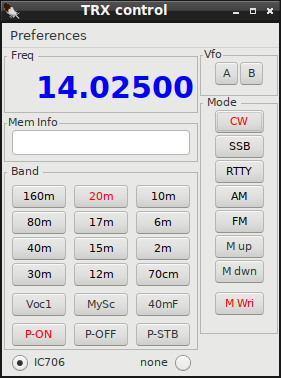
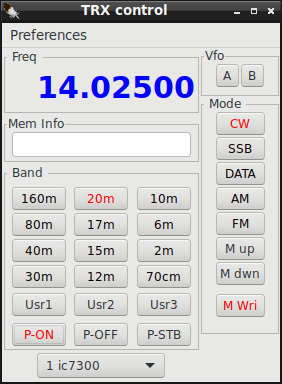
Fixed some help files

diff --git a/help/h1.html b/help/h1.html
@@ -34,9 +34,9 @@
 <br>There are some additional startup parameters that you can use with command terminal, or add them to your startup menu parameters of cqrlog.
  Those parameters can be listed in command terminal starting cqrlog as: cqrlog -h , or: cqrlog --help
 <br><br><img src=img/h0.png border=0>
-<br><br>Starting with <b>--remote</b> or <b>-r</b> takes one letter argument <b>J</b>,<b> M</b> or <b>K</b> that is not case sensitive. Letters correspond quick control keys in NewQSO/File to start three remote modes.
+<br><br>Starting with <strong>--remote</strong> or <strong>-r</strong> takes one letter argument <strong>J</strong>,<strong> M</strong> or <strong>K</strong> that is not case sensitive. Letters correspond quick control keys in NewQSO/File to start three remote modes.
 <br>When one of these are assigned cqrlog will jump to selected remote mode 10 seconds after startup is complete.
-<br><br>Starting with <b>--debug</b> takes one number (NR) usually<b> 1</b> to see full debug. Thtere are also some negative numbers in use to limit debug prints to certain functions. Mainly for developer usage.
+<br><br>Starting with <strong>--debug</strong> takes one number (NR) usually<strong> 1</strong> to see full debug. Thtere are also some negative numbers in use to limit debug prints to certain functions. Mainly for developer usage.
 
 </p>
 <a name=ah1><h2><strong>Preferences</strong></h2>
@@ -208,48 +208,86 @@
     Checked bands are visible in both statistics appearing at the bottom of logging screen
     (bands/modes of the actual logged station) and main DXCC, WAZ and ITU zones statistics.
     It also affects the Challenge points at the bottom of the DXCC statistics.<br>
-    Pressing button <b>frequencies</b> band, and mode limits within bands, can be set.
+    Pressing button <strong>frequencies</strong> band, and mode limits within bands, can be set.
 </div><br>
 <img src=img/h9b.png border=0><br><br>
 <p align=center><img src=img/line.png></p>
 <a name=ah7><h2><strong>TRX Control</strong></h2></a>
 <img src=img/h10.png border=0><br><br>
-<div align=justify>
 
-<br><br><b> Note: </b>Running same time CQRLOG and other software that uses rig's CAT control can not be done by just setting rig same parameters to both programs.
-<br>That causes problems. See this document for more information: <a href="https://github.com/OH1KH/cqrlog/blob/loc_testing/compiled/setting_rigctld_for_all_programs.pdf">https://github.com/OH1KH/cqrlog/blob/loc_testing/compiled/setting_rigctld_for_all_programs.pdf</a>
-<br><br><b>Note: </b>CQRLOG supports operating with two TRX radios but only one can be active at a time.
-<br><br>
-    <strong>Radio one, desc:</strong> is a description you'll see in TRX control window. It is only
-    descriptive text, you can write whatever you want.<br><br>
-    <strong>Host:</strong> computer where rigctld is running, localhost is fine for most cases. <br><br>
+<br>Running same time CQRLOG and other software that uses same rig's CAT control can not be done by just setting rig same parameters to both programs.
+    That causes problems. See this document for more information: <a href="https://github.com/OH1KH/cqrlog/blob/loc_testing/compiled/setting_rigctld_for_all_programs.pdf">https://github.com/OH1KH/cqrlog/blob/loc_testing/compiled/setting_rigctld_for_all_programs.pdf</a>
+    
+    <ul><li><strong>Note: </strong>CQRLOG supports operating with six Rigs but only one can be active at a time.
+    </li></ul>
+    <strong>Path to rigctld binary</strong> This tells Cqrlog from where to find rigctld that is a part of Hamlib. That is important for two
+    reasons. 
+    <br>1st The rig model list is loaded from rigctld when preferences open. That makes model list to be always up to date and Cqrlog
+    supports always all rigs that current rigctld can support.
+    <br>2nd rigctld is started when Cqrlog starts (most of cases). Writing whole path makes rigctld to be found also the when it is not found
+    from default path.
+    <ul><li><strong> Note: </strong>Usuallly rigctld is found from /usr/bin, but if you have compiled it by yourself from source it may default to /usr/local/bin
+    </li></ul>
+    <strong>Nr of radios:</strong> With this you can select how many radios Cqrlog will support (Max 6, now).
+    <br><br>
+    <strong>Name:</strong>This is the radio name that you will see in combo box selector lists: TRXControl, Prefrences/TRXControl, Modes, CW interface.
+    If rig is not defined, means rig Name is empty, you will see "None" here. If you want to remove rig definition select it from selector, then clear
+    rig Model manually using delete key and change selector to another rig, or close prfereces with "OK" button.
+    <br>This will remove also rig's Modes and CW interface definition from configuration file. Next time you select deleted rig Cqrlog will load all defaults to settings.
+    <ul><li><strong>Note: </strong>If you have 3 rigs and you delete rig #2 Cqrlog does not reorder selection list. Your rig #3 stays as 3rd in 
+    selector list and #2 becomes "None"
+    </ul></li>
+    <strong>Host:</strong> computer where rigctld is running, localhost is fine for most cases but can be IP address of another computer where
+    rigctld is running (I.E. even over local network or internet) <br><br>
     <strong>RIG model:</strong> choose your radio model from the list.
     <br> Rig models below 10 (Dummy, NET rigctld, FLRig, TRXManager) are using TCP communication and so the <strong>Device</strong> as well
-     as <strong>Radio serial parameters</strong> do not need settings.<br><br>
+     as <strong>Radio serial parameters</strong> do not need settings.
+    <br><br>
     <strong>Device:</strong> device which the radio is connected to. /dev/ttyS0 is COM1, /dev/ttyS1
     is COM2 etc. If you use USB to serial interface, the device will usually be /dev/ttyUSB0
     for COM1 etc. If you are using Ubuntu or Debian, <strong>you have to be member of the dialout users
-    group</strong> to have rights to the serial ports.<br><br>
-    <strong>Poll rate:</strong> specifies how often CQRLOG should read data from rigctld. 500 milliseconds
-    is fine.<br><br>
+    group</strong> to have rights to the serial ports.
+    <ul><li><strong> Note: </strong>When connecting to rigctld emulator that imitates a rig via TCP connection the IPaddress and port may be written here like: 192.168.60.1:1234    
+    </li><li><strong> Note: </strong>With recent rigctlds you can use also names in /dev/serial/by-id/ folder. That way the device name does not change
+    like it often happens if you reorder USB wires in PS's sokets.
+    <br>(I.E my ci7300 shows out as /dev/serial/by-id/usb-Silicon_Labs_CP2102_USB_to_UART_Bridge_Controller_IC-7300_03003483-if00-port0  )
+    </li></ul>
+    <strong>Poll rate:</strong> specifies how often CQRLOG should read data from rigctld. 500 milliseconds is defaut. 
+    If your rig is old and slow values 1000 - 3000 may work better.
+    <br><br>
     <strong>Port number</strong> is the number of the port used to communicate with rigctld.
-    Default value is 4532. The second radio, has to have a different port e.g. 4533.<br>
-    <br><strong>Extra command line arguments</strong> usefull when you have to specify more parameters to
-    rigctld. E.g. CIV address (--civaddr=ID, where ID is the CIV address).<br><br>
-    <strong>Run rigctld when program starts</strong> is usually checked but when rig model #2 <strong>Hamlib Net Rigctld</strong> is used then it is unchecked and disabled because with that rig setting we are trying to connect external rigctld. Either in same PC or in network.
-    <br>If rig model #1 <b>Hamlib Dummy</b> is selected <strong>Run rigctld when program starts</strong>  is forced to be checked. This allows testing and simulated operations without rig CAT control.
-    <br><br><strong>Use \chkvfo</strong> is normally checked. Then cqrlog tries to find out is rigctld started with parameter "--vfo" because that changes rigctld command format. Uncheck of this disables this function. Use it in case of problems.
-    <br><br><strong>Serial port parameters</strong> Use the manual of your rig, please choose the correct options.
+    Default value of rigctld is 4532.
+    <br><br>
+    <strong>Extra command line arguments</strong> usefull when you have to specify more parameters to
+    rigctld. E.g. CIV address (--civaddr=ID, where ID is the CIV address) or similars. See rigctld man page for supported parameters.
+    <br><br>
+    <strong>Use CWR insted of CW</strong> means that mode CW will use reverse sideband in receive.
+    <br><br>
+    <strong>Run rigctld when program starts</strong> is usually checked but when rig model #2 <strong>Hamlib Net Rigctld</strong> is used then
+    it is unchecked and disabled because with that rig model we are trying to connect externally running rigctld. Either in same PC or in network.
+    <br>If rig model #1 <strong>Hamlib Dummy</strong> is selected <strong>Run rigctld when program starts</strong>  is forced to be checked. 
+    This allows testing and simulated operations without rig with CAT control.
+    <ul><li><strong> Note: </strong>If you use Cqrlog without connected rig it may be usefull to select rig model #1. Then you can open TRXConrol
+    window and set bands, modes and frequency from there that might be more convinient than selecting them from NewQSO window.
+    <br>Model Hamlib Dummy starts default from 145MHz frequency. Seeing that in TRXControl window tells you that Dummy rig is running.
+    </li></ul>
+    <strong>Use \chkvfo</strong> is normally checked. Then cqrlog tries to find out is rigctld started with parameter "--vfo" because
+     that changes rigctld command format. Uncheck of this disables this function. Use it in case of problems. This may be default ON in future
+     Hamlibs version > 5.
+    <br><br>
+    <strong>Serial port parameters</strong> Use the manual of your rig, please choose the correct options.
     Very often it is much better to specify only serial speed and leave other options as default.
-    Default value means that the settings from HamLib will be used.<br>
-    <br>
-    <strong>User defined TRXControl buttons</strong> can be defined here. Your defined buttons will shown in the TRX Control window after
-     you drop select this option in using the <strong>Preferences tab in the TRXControl</strong> window. For setting up buttons use
-      <strong>preferences</strong> option from TRXControl drop select option <strong>Preferences</strong>. From TRX Control tab you will find group
-       box named <strong>User defined TRX control buttons</strong>.
-    The first column is button name shown (4char max). In the same area the second column is the command(s) to execute. Definition can consist one 
-     command or several in a queue, rigctld commands may be used or if definition starts with word "<strong>run</strong>" (without quotes) it can be a program or
-      script name with full file path for your computer.
+    Default value means that the default settings from HamLib will be used. That should be fine in normal cases.
+    <br><br>
+    <strong>Rig pwr ON cmd</strong> When checked Cqrlog will send power ON command at startup to rig if rig can support power commands.
+    <br><br>
+    <strong>User defined TRXControl buttons</strong> can be defined here. Your defined buttons will be shown in the TRX Control window after
+     you select this option using the <strong>Preferences menu/Show Usr buttons</strong> in the <strong>TRXControl window.</strong> 
+     <br>
+     The first column is button name shown (4char max). In the same area the second column is for the command(s) to execute. 
+     Definition can consist one command or several ones in a queue.
+     <br> rigctld commands may be used directly or if definition starts with word "<strong>run</strong>" (without quotes) 
+     it can be a program or script name with full file path.
       <br><ul> <li>
     <strong>Note:</strong> Rigctld supports raw command <strong>W</strong>. Parameter for it is the rig cat command in bytes. Prefix<strong> \0x</strong> must be added for Hex values. Usr1 command in picture Sets IC7300 to 60m CW with 500Hz filter and reduces output power to leagal limit with raw command.
     </li> <li>
@@ -279,7 +317,6 @@
     <br>Ctrl-0 will disable XIT. 
     <br>Ctrl-9 has a random value 0-990Hz that is added to setting if split is up. If split is down it is subtracted.<br>
     
-</div>
 <br>
 <img src=img/h100.png border=0> <img src=img/h100b.png border=0><br>
 
@@ -289,11 +326,11 @@
 Setting up Rotator control is very similar to setting up Rig control. Rotor models 1 and 2 (Dummy, NET rotctld ) are using TCP communication and so the <strong>Device</strong> as well
      as <strong>Rotor serial parameters</strong> do not need settings.<br><br>
 <br>
-<br>If <b>Use rotctld \dump_state info for limits</b> cheked rotctld asks turning limits AzMin and AzMax values from rotctld with command <strong>'+\dump_state'</strong>.
+<br>If <strong>Use rotctld \dump_state info for limits</strong> cheked rotctld asks turning limits AzMin and AzMax values from rotctld with command <strong>'+\dump_state'</strong>.
  That makes user possible to set turning limits other than rotator default turn with
  <strong>Extra command line arguments</strong>. Using string <strong> --set-conf=min_az=10,max_az=355</strong>  you can set rotator so that cqrlog will never turn it below 10deg or over 355deg.
  <br>Using negative value at az_min causes Cqrlog set it's 0degrees "P"-command to given negative value (while still displaying 0). I.E if az_min=-180 Cqrlog will use turning commands from "P-180" to "P180".
- <br>Without negative az_min or when checkbox  <b>Use rotctld \dump_state info for limits</b> is not set Cqrlog sends commands in usual range "P0 to "P360".
+ <br>Without negative az_min or when checkbox  <strong>Use rotctld \dump_state info for limits</strong> is not set Cqrlog sends commands in usual range "P0 to "P360".
  </p><p>Some rotators have turn from -180deg-0deg-180deg (south stop), like Hamlib Dummy test rotator.
  <br>Most of rotators have turn 0deg - 360deg.
  <br>Some may turn 0deg - >360 deg. With them cqrlog never drives values over 360, but reads position right if rotor sends over 360 deg value (sent_value-360 = cqrlog display).
@@ -305,32 +342,45 @@ Setting up Rotator control is very similar to setting up Rig control. Rotor mode
 You can define your own favourite frequencis and swich between them directly in New QSO window using ALT+V (Mem down)
 and
 ALT+B (Mem up). These keys are used in N6TR clones to switch between bands.<br>
-You can also switch between memory frequencies with TRXControl's <b>M up</b> and <b>M dwn</b> buttons and set rig frequencies
+You can also switch between memory frequencies with TRXControl's <strong>M up</strong> and <strong>M dwn</strong> buttons and set rig frequencies
  by double clicking rows in TRXControl's Add/Modify memory list.
 
 </p>
 <img src="img/h121.png"><br><br>
 <a name=ah8><h2><strong>Modes</strong></h2></a>
 <img src=img/h11.png border=0><br><br>
-<p>Here you can set up the default bandwidth for any of the supported modes (CW - SSB - RTTY - AM - FM).
-If your radio is tuned to the corresponding band segment or if you switch the mode on the radio
-control panel, CQRLOG will change the bandwidth to the desired value. The bandwidth can be
-changed at any time, however a program restart will probably be needed to make the changes
-take effect.<br>
-Some <strong>TRX like ICOM don't have support for this in HamLib. To get mode settings work, set
-all values to 0 (zero).</strong>
-</p><p><strong>User definable digital modes</strong> can be set up in a separate box. Use comma
-as a separator, ie. MYMODE1,MYMODE2 etc.<br>
-user should add digital modes (submode names) exactly as written in this table <a href="https://adif.org/312/ADIF_312.htm#Mode_Enumeration">ADIF.org: Mode_Enumeration</a> 
+<p>Here you can set up the default bandwidth for any of the supported modes (CW - SSB - DATA - AM - FM) for rig selectd from <strong>Radio </strong>
+selector list box.
+If your rig is tuned to the corresponding band segment or if you switch the mode from TRXControl buttons CQRLOG will change the bandwidth
+ to the defined value. 
+<br>Setting 0 (zero) to values means that rig should use default bandwidth. This is good selection also when rig can not support bandwidth
+settings (like some ICOM rigs).
+<br>Setting -1 here means that bandwidth setting must be kept as it was. This also needs that rigctld supports negative value (version >=  4).
+<br><br>
+<strong>Log mode </strong>This is the data mode you most often use. Defaulting to RTTY. From mode selector you can select another mode.
+If mode does not exist you have to define it in <strong>User defined digital modes</strong> and then come back to mode selector.
+<br>
+This mode efftects to DXCluster window's spot line coloring (See <a href="h1.html#ah11">DX Cluster</a> ) and also sets defined mode if DX spot line
+is double clicked.
+<br><br>
+<strong>CAT cmd </strong>This is the rigctld mode command that needs to be sent to rig to get rig to proper mode for <strong>Log mode</strong>.
+<br><br>
+<strong>Use also reverse (cat -> rig) </strong>This defines if Cqrlog should show <strong>Log mode</strong> when rig is set to <strong>CAT cmd </strong>
+mode. This may have a pitfall. If your settings are for example SSTV and USB then Cqrlog will select mode as SSTV also when you are working USB fone qsos.
+<br>Usually this needs not to be set if DATA qsos are worked with external program using Cqrlog remote modes.
+<br><br>
+<strong>User defined digital modes</strong> can be set up in a separate box. Use comma as a separator, ie. MYMODE1,MYMODE2 etc.<br>
+User should add digital modes (submode names) exactly as written in this table <a href="https://adif.org/312/ADIF_312.htm#Mode_Enumeration">ADIF.org: Mode_Enumeration</a> 
 If mode is missing from <strong>NewQSO/mode</strong> selection list and not added to <strong>User defined digital modes</strong> it may prevent ADIF import causing "wrong mode" error.
-</p><p>
-<strong>Note:</strong><br>
-Cqrlog uses internally modefied mode name. We call it here <strong>CqrMode</strong>. CqrMode is created from ADIF mode and submode with conversion table. CqrMode is mainly ADIF submode if it exist, with some exceptions.
+<ul><li>
+<strong>Note:</strong> Cqrlog uses internally modified mode name. We call it here <strong>CqrMode</strong>. CqrMode is created from ADIF mode and
+ submode with conversion table. CqrMode is mainly ADIF submode if it exist, with some exceptions.
 <br>Cqrlog will create four files in ~/.config/cqrlog folder for this use if they do not exist. One is a brief <strong>README_modefiles</strong> explaining three other files purposes.
-<br><br>If files exist they are not overwritten keeping possible user changes there. How ever user must do backups by himself if files are edited from original format.
+</li></ul>
+If files exist they are not overwritten keeping possible user changes there. How ever user must do backups by himself if files are edited from original format.
 These files apply to all logs created. They are not log based.
-<ul>
-<li><strong>submode_mode.txt</strong>
+<ul><li>
+<strong>submode_mode.txt</strong>
 <br> This file holds submode=mode pairs used to convert incoming mode+submode pair to CqrMode that mainly is the submode.
 <br><br> All pairs must be in uppercase format. User can add or delete mode pairs with text editor if definition at
 <br> <a href="https://adif.org/312/ADIF_312.htm#Mode_Enumeration">ADIF.org: Mode_Enumeration</a> changes. 
@@ -639,18 +689,22 @@ There are no known dependencies issues.<br><br>
     <br>Normally you do not need to touch eQSL addresses. But in case something changes at eQSL web pages it might be possible to fix it here without rebuilding cqrlog program.<br><br>
     <a name=ch1><h2><strong>CW interface</strong></h2></a>
     <img src="img/h95.png"><br><br>
-    Choose your preferred CW interface for radios you have. There are 5 options: None, WinKeyer USB,
-    cwdaemon, K3NG keyer and HamLib. We strongly recommend Winkey USB by Steve Elliot, K1EL,
-    which provides 'all in one' keying, including one of most advanced paddle keyers available.
-    cwdaemon should be seen as a backup option with many limitations, which may need
-    a custom linux kernel to avoid sloppy CW at speeds above 25 WPM. If cwdaemon is used,
-    only keyboard keying is possible.
-    <br>If you use <strong>same keyer for both rigs</strong>, and it is not HamLib, you can check <strong>Do not reset when switch radios</strong> to prevent keyer reset (that sets CW speed to default).
+    Choose your preferred CW interface for radio you have selected from <strong>Radio</strong> selector list.
+    <br>There are 5 options: None, WinKeyer ,cwdaemon, K3NG keyer and HamLib in <strong>CW interface type</strong> selector list.
+    <br>We strongly recommend <strong>Winkeyer</strong> by Steve Elliot, K1EL, which provides 'all in one' keying, including one of most 
+    advanced paddle keyers available.
+    <br>When checking <strong>Use potentiometer's CW speed</strong> Cqrlog does not send <strong>Default CW speed</strong> command to keyer
+    when it is initialized.
     <br><br>
-    Detailed setup of the CW devices is here:
+    <strong>cwdaemon</strong> should be seen as a backup option with many limitations, which may need a custom linux kernel to avoid 
+    sloppy CW at speeds above 25 WPM. If cwdaemon is used, only keyboard keying is possible.
+    <br><br>If you use <strong>Do not reset when switching radios</strong> it prevents keyer reset (that sets CW speed to default). 
+    This option does not apply with Hamlib keyer in use.
+    <br><br>
+    Detailed setup of the CW devices are here:
     <ul>
+        <li><a href=wkusb.html><strong>Winkeyer</strong></a></li>
         <li><a href=cwd.html><strong>cwdaemon</strong></a>
-        <li><a href=wkusb.html><strong>Winkey USB</strong></a></li>
         <li><a href="http://blog.radioartisan.com/arduino-cw-keyer/" target="_blank">
             <strong>K3NG</strong></a></li>
         <li><a href=cwh.html><strong>HamLib</strong></a>
@@ -683,9 +737,9 @@ There are no known dependencies issues.<br><br>
     Setting wsjt-x interface is mainly same as setting fldigi. How ever communication is done via UDP frames and so the IP address and Port must be specified.
     <br>Default values are <strong>127.0.0.1</strong> or <strong>localhost</strong> for address and <strong>2237</strong> for port. These are set in wsjt-x settings/reporting and if changed there, must also to be changed here.
     <br>
-    Address can also be other PC's IP address if wsjt-x is running in different networked PC than cqrlog, or even<b> 0.0.0.0</b> when cqrlog listens all transmits from every wsjt-x in network.
+    Address can also be other PC's IP address if wsjt-x is running in different networked PC than cqrlog, or even<strong> 0.0.0.0</strong> when cqrlog listens all transmits from every wsjt-x in network.
 
-    <br><br>You can also use a multicast address for both <b>wsjt-x/settings/Reporting/UDP Server</b> and <b>cqrlog/preferences/fldigi/wsjt interface/wsjt addr</b>. Cqrlog will handle ip addresses starting with "239." as multicast addresses.
+    <br><br>You can also use a multicast address for both <strong>wsjt-x/settings/Reporting/UDP Server</strong> and <strong>cqrlog/preferences/fldigi/wsjt interface/wsjt addr</strong>. Cqrlog will handle ip addresses starting with "239." as multicast addresses.
     <br>With multicast you are able to run several programs listening to wsjt-x udp broadcasts at same time. To start with multicast try multicast group address "239.255.0.0" for both cqrlog and wsjt-x (and also other programs needed to listen wsjt-x)
     <br><br>
     Using <strong> WB4 chk starts from</strong> it is possible to limit log search starting from given date for callsign and/or locator.
@@ -767,7 +821,7 @@ There are no known dependencies issues.<br><br>
     </ul>
       <li><strong>Delete old information after XX seconds</strong> The dots won't stay on the map forever.
     180 seconds (3 minutes) is a good default value.
-    <br><b>Note:</b> Dots also depend on the band, if you change band, dots will always be deleted. All data is band related.</li>
+    <br><strong>Note:</strong> Dots also depend on the band, if you change band, dots will always be deleted. All data is band related.</li>
     </ul>
     <br><br>
 

diff --git a/help/h30.html b/help/h30.html
@@ -1,4 +1,4 @@
-<!DOCTYPE HTML PUBLIC "-//W3C//DTD HTML 4.01 Transitional//EN">
+OS<!DOCTYPE HTML PUBLIC "-//W3C//DTD HTML 4.01 Transitional//EN">
 <html>
 <meta http-equiv="Content-Type" content="text/html;charset=utf-8">
 <head>
@@ -36,34 +36,44 @@
 <img src="img/h118b.png" name="8"  width="320" height="360">
 </img>
 <p>
-TRX Control window Shows current frequency and buttons allow change of Band, mode, memory and rig. Additional selections are User defined buttons, Power buttons, Vfo A and B buttons and memory information field.
+TRX Control window shows current frequency and buttons that allow change of band, mode, memory and rig. 
+<br>Additional selections are User defined buttons, Power buttons, Vfo A and B buttons and memory information field.
 <br>When pressing band selection button rig moves to that band using predefined frequency of currently active mode. Default frequencies and User buttons can be defined in <a href="h1.html#ah7">preferecences/TRX control</a>.
-<br><br>You can select rig vfo with buttons <b>A</b> and <b>B</b> but there is no feedback what vfo is currenty used as Icom brand rigs do not support "Get_vfo" command.
-</p><a name="m4"></a><p>If <b>M_up</b> or <b>M_dwn</b> are pressed or memory is selected by double click of memory list, the information text will show up to <b>Mem Info</b> field. If frequency is changed manually after that info text will disappear.
-<br>If memory does not have info text (max 25chr) just <b>x of y</b> is displayed where x refers to memory order in Add/Modify memory list and y total amount of memories.
-<b>None</b> (in red) indicates that there are no memory lines.
-<br>With <b>P-on/off/stb</b> buttons current rig can be set ON, OFF or STANDBY (if it supports rigctld power commands).
-<br>Default setting for power buttons is hidden. You can change it via dropdown menu "Preferences".
-<br><br><b>M_up</b> and <b>M_dwn</b> buttons select next/previous entry from memory list. <b>M_Wri</b> adds entry to memory list from current rig frequency and mode and info field shows<b> "MW ok"</b>.
-<br><br>You can change rig frequency by clicking frequency display. Then you can enter a new <b>MHz value</b> and press enter.
-<br>You can also use mouse wheel to change frequency. One wheel step is 100Hz, Keeping <b>Shift key</b> pressed the step is 1kHz. Keeping <b>Ctrl key</b> pressed the step is 10kHz.
+<br><br>
+By clicking frequency display you can set a new frequency and click again (or press enter) to send command to rig.
+<br>You can also use mouse roll to move frequency after first clicking the frequency display. 
+
+<ul><li>By default steps are 100Hz 
+</li><li>Keeping <strong>Shift key</strong> pressed while turning the roll steps are 1kHz
+</li><li>Keeping <strong>Ctrl key</strong> pressed while turning the roll steps are 10kHz
+</li><li>Keeping both <strong>Shift key</strong> and <strong>Ctrl key</strong> pressed while turning the roll steps are 1MHz
+</li></ul>
+You can select rig vfo with buttons <strong>A</strong> and <strong>B</strong> but there may be no feedback what vfo is currenty used (Icom brand rigs do not support "Get_vfo" command).
+</p><a name="m4"></a><p>If <strong>M_up</strong> or <strong>M_dwn</strong> are pressed or memory is selected by double click of memory list, the information text will show up to <strong>Mem Info</strong> field. If frequency is changed manually after that info text will disappear.
+<br>If memory does not have info text (max 25chr) just <strong>x of y</strong> is displayed where x refers to memory order in Add/Modify memory list and y total amount of memories.
+<strong>None</strong> (in red) indicates that there are no memory lines.
+<br>With <strong>P-on/off/stb</strong> buttons current rig can be set ON, OFF or STANDBY (if it supports rigctld power commands).
+<br>Default setting for power buttons is hidden. You can change it via dropdown menu "Preferences". They are also hidden if rig can not support power commands.
+<br><br><strong>M_up</strong> and <strong>M_dwn</strong> buttons select next/previous entry from memory list. <strong>M_Wri</strong> adds entry to memory list from current rig frequency and mode and info field shows<strong> "MW ok"</strong>.
+<br><br>You can change rig frequency by clicking frequency display. Then you can enter a new <strong>MHz value</strong> and press enter.
+<br>You can also use mouse wheel to change frequency. One wheel step is 100Hz, Keeping <strong>Shift key</strong> pressed the step is 1kHz. Keeping <strong>Ctrl key</strong> pressed the step is 10kHz.
 Keeping both keys pressed the step is 1MHz.
 <br>If you use mouse wheel the rig frequency is changed while turning. There is no need to press enter then. Just move mouse cursor away from frequency display.
 
-<br><br><b>NOTE!!!</b> <br>Check <b>pereferences/TRXcontrol/Switch only between mode related memories</b><br>Cqrlog TRXcontrol memories are categorized by mode (groups). CW, SSB(=AM+USB+LSB+FM), RTTY(=RTTY+DATA+PKTLSB+PKTUSB+PKTFM)[no mode selector for PKT*  but you may "M wri" them anyway]. 
-So do not wonder if you get smaller amount of memories than in your list when pressing <b>M_up</b> and <b>M_dwn</b> with "Show mode related" checked.
-<br><br>
+<ul><li><strong>NOTE: </strong>Check <strong>pereferences/TRXcontrol/Switch only between mode related memories</strong><br>Cqrlog TRXcontrol memories are categorized by mode (groups). CW, SSB(=AM+USB+LSB+FM), RTTY(=RTTY+DATA+PKTLSB+PKTUSB+PKTFM)[no mode selector for PKT*  but you may "M wri" them anyway]. 
+So do not wonder if you get smaller amount of memories than in your list when pressing <strong>M_up</strong> and <strong>M_dwn</strong> with "Show mode related" checked.
+</li></ul>
 <img src="img/h122.png" name="9"  width="393" height="367">
  <img src="img/h121.png" name="10"  width="373" height="367">
 </img>
 <br/>
-<br>You can set rig by double click of an memory row in <b>Open  memory list</b>. Similar action happen also in <b>Add/Modify memories</b>. The differense is that you can keep
- <b>Open memory list</b> open while loggeing qsos etc. Where as <b>Add/Modify memories</b>, when open, blocks other functionality.
- <br>While <b>Add/Modify memories</b> is open you can use buttons in right frame. Texts of buttons are quite self explaining.
- <br>Deleting a memory line, or all lines, do not have any further warning questions (Are you sure?). In case you deleted something wrong just close window with  <b>Cancel</b>. No changes are recorded then.
-<br>Closing <b>Add/Modify memories</b> is done with buttons <b>OK</b> or <b>Cancel</b>. Closing <b> Open memory list</b> window must be done using <b>x</b> at top right corner of window.
-<br> <b> Open memory list</b> closes also if <b>Add/Modify memories</b> is opened. They can not be open at same time.
-<br><br> If you make changes to <b>preferences/TRXControl</b> after that just select another radio (even if not existing) from radio buttons <b>Radio 1</b> , <b>Radio 2</b>. Then select back the previous radio and new values are read. It is possible also reload settings from <b>NewQSO/File/Refresh TRX/ROT control</b>.</p>
+<br>You can set rig by double click of an memory row in <strong>Open  memory list</strong>. Similar action happen also in <strong>Add/Modify memories</strong>. The differense is that you can keep
+ <strong>Open memory list</strong> open while loggeing qsos etc. Where as <strong>Add/Modify memories</strong>, when open, blocks other functionality.
+ <br>While <strong>Add/Modify memories</strong> is open you can use buttons in right frame. Texts of buttons are quite self explaining.
+ <br>Deleting a memory line, or all lines, do not have any further warning questions (Are you sure?). In case you deleted something wrong just close window with  <strong>Cancel</strong>. No changes are recorded then.
+<br>Closing <strong>Add/Modify memories</strong> is done with buttons <strong>OK</strong> or <strong>Cancel</strong>. Closing <strong> Open memory list</strong> window must be done using <strong>x</strong> at top right corner of window.
+<br> <strong> Open memory list</strong> closes also if <strong>Add/Modify memories</strong> is opened. They can not be open at same time.
+<br><br> If you make changes to <strong>preferences/TRXControl</strong> after that just select another radio (even if not existing) from radio buttons <strong>Radio 1</strong> , <strong>Radio 2</strong>. Then select back the previous radio and new values are read. It is possible also reload settings from <strong>NewQSO/File/Refresh TRX/ROT control</strong>.</p>
 
 </p><p>See also <a href="h1.html#ah7">setting up TRX/ROTControl</a>
 </p>
@@ -76,23 +86,24 @@ From NewQSO/Window you can open <strong>Rotor control</strong> window.
 <p><img src="img/h121a.png" name="121a"><img src="img/h121aa.png" name="121aa"><img src="img/h121b.png" name="121b">
 <img src="img/h121e.png" name="121e"><img src="img/h121c.png" name="121c"><img src="img/h121d.png" name="121d">
 </p>
-Window shows current position of rotor with <b>numerical display, Short and Long path Buttons and radio buttons to select rotor 1 or rotor 2</b>.
-<br>User can resize window and select <b>additional bar display, direction and stop buttons</b>.
+Window shows current position of rotor with <strong>numerical display, Short and Long path Buttons and radio buttons to select rotor 1 or rotor 2</strong>.
+<br>User can resize window and select <strong>additional bar display, direction and stop buttons</strong>.
 <br>Small numbers on top of bar display shows current rotor limits. Usually this is 0..360, but may be also -180..180 depending on rotor model, or other user defined limits.
 <br>Direction drive buttons run rotor until stop button is pressed or maximum 15sec time limit is reached.
-<br><br> When a call is entered to <b>NewQSO</b> callsign field and cursor is moved away from that field <b>DXCC info</b> part gets filled against call prefix and/or locator grid,
- then, when <b>DXCC/AZIM</b> shows a value, it is possible to press <b>Short Path</b> or <b>Long Path buttons</b> and your ro
+<br><br> When a call is entered to <strong>NewQSO</strong> callsign field and cursor is moved away from that field <strong>DXCC info</strong> part gets filled against call prefix and/or locator grid,
+ then, when <strong>DXCC/AZIM</strong> shows a value, it is possible to press <strong>Short Path</strong> or <strong>Long Path buttons</strong> and your ro
  tor will turn your antenna to that direction.
-<br><br>It is also possible to set new direction by a click on <b>Azimuth display</b>, type a new direction value and press <b>Enter</b> or use  <b>mouse wheel</b> to select degrees.
-<br>One wheel step is one degree. If you keep <b>Shift key</b> pressed while turning mouse wheel the step will be 10 degrees. If <b> Ctrl key</b> is pressed instead step will be 100 degrees.
+<br><br>It is also possible to set new direction by a click on <strong>Azimuth display</strong>, type a new direction value and press <strong>Enter</strong> or use  <strong>mouse wheel</strong> to select degrees.
+<br>One wheel step is one degree. If you keep <strong>Shift key</strong> pressed while turning mouse wheel the step will be 10 degrees. If <strong> Ctrl key</strong> is pressed instead step will be 100 degrees.
 <br>If you have used mouse wheel it is enough to move mouse away from Azimuth reading to get rotor turning. No enter keypress is needed then.
-<br><br>Pressing <b>Stop button</b> stops rotor turning started either with path or turn buttons.</p>
+<br><br>Pressing <strong>Stop button</strong> stops rotor turning started either with path or turn buttons.</p>
 <p>Progress bar displays Az value relative to AzLimits (if Use \dump_state is checked in preferences) so do not wonder if it in some cases may look different than numerical true direction display. 
 <br>If error message is received from rotctld button area turns red. If requested turn command is ok, but az_min or az_maz limits change requested direction from true direction 
 (then antenna may not always reach requested direction) button area will turn yellow as warning sign.
 <br>The length of color flash depends on poll rate and is error permanent or not.
 <br>
-<br>If you make changes to <b>preferences/Rot Control</b> after that just select another rotor (even if not existing) from radio buttons <b>Rotor 1</b> , <b>Rotor 2</b>. Then select back the previous rotor and new values are read. It is possible also reload settings from <b>NewQSO/File/Refresh TRX/ROT control</b>.</p>
+<br>If you make changes to <strong>preferences/Rot Control</strong> after that just select another rotor (even if not existing) from radio buttons <strong>Rotor 1</strong> , <strong>Rotor 2</strong>. Then select back the previous rotor and new values are read. It is possible also reload settings from <strong>
+NewQSO/File/Refresh TRX/ROT control</strong>.</p>
 </p><p>See also <a href="h1.html#ah7">setting up TRX/ROTControl</a>
 </p><table width="100%" border="0" cellpadding="2" cellspacing="2">
     <tbody>
